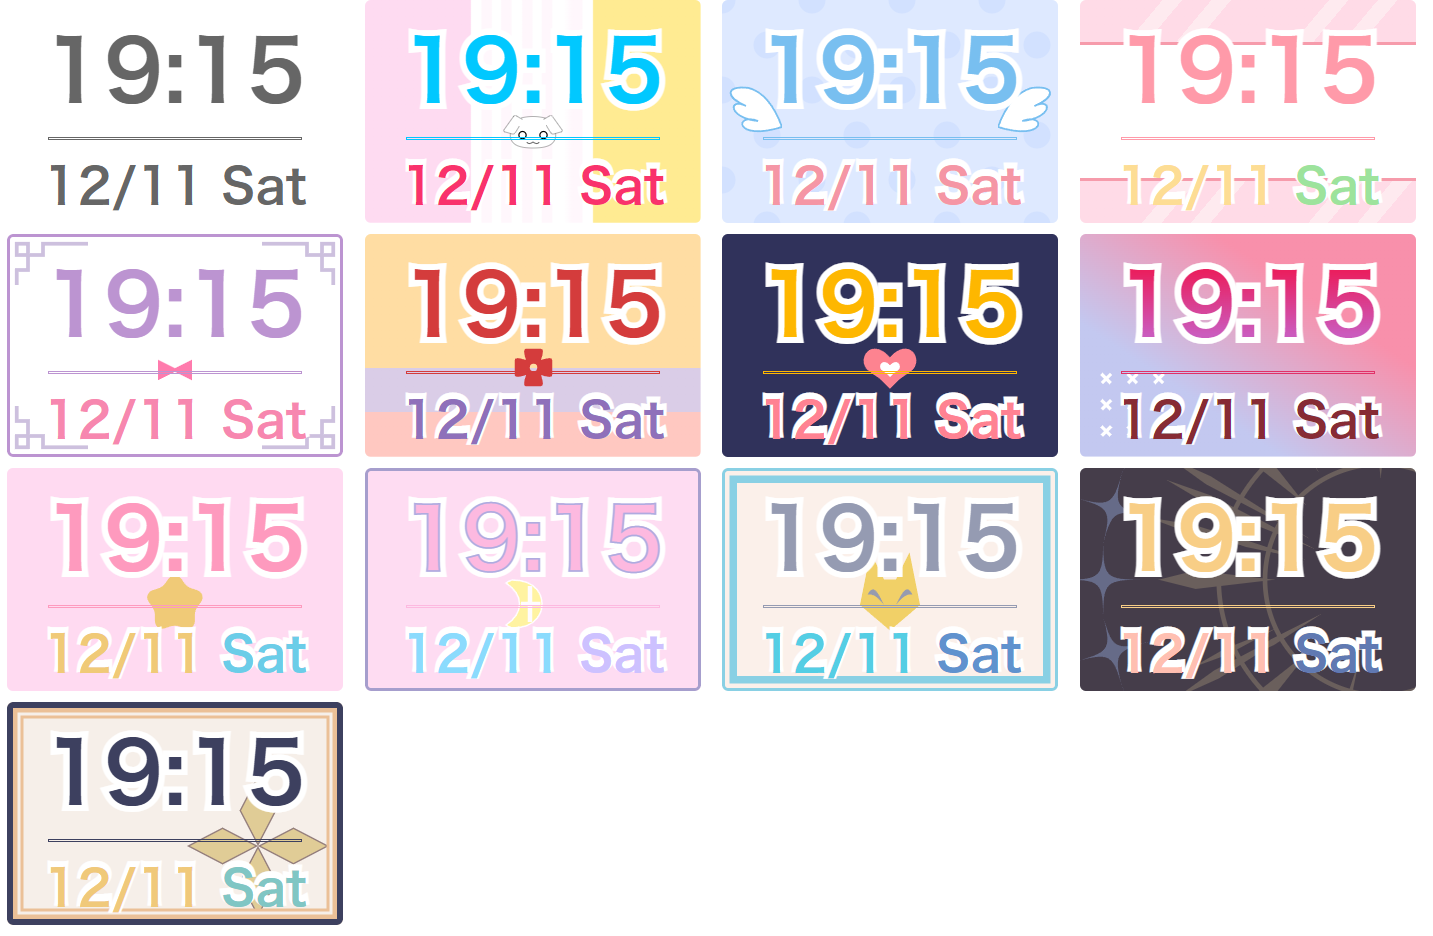
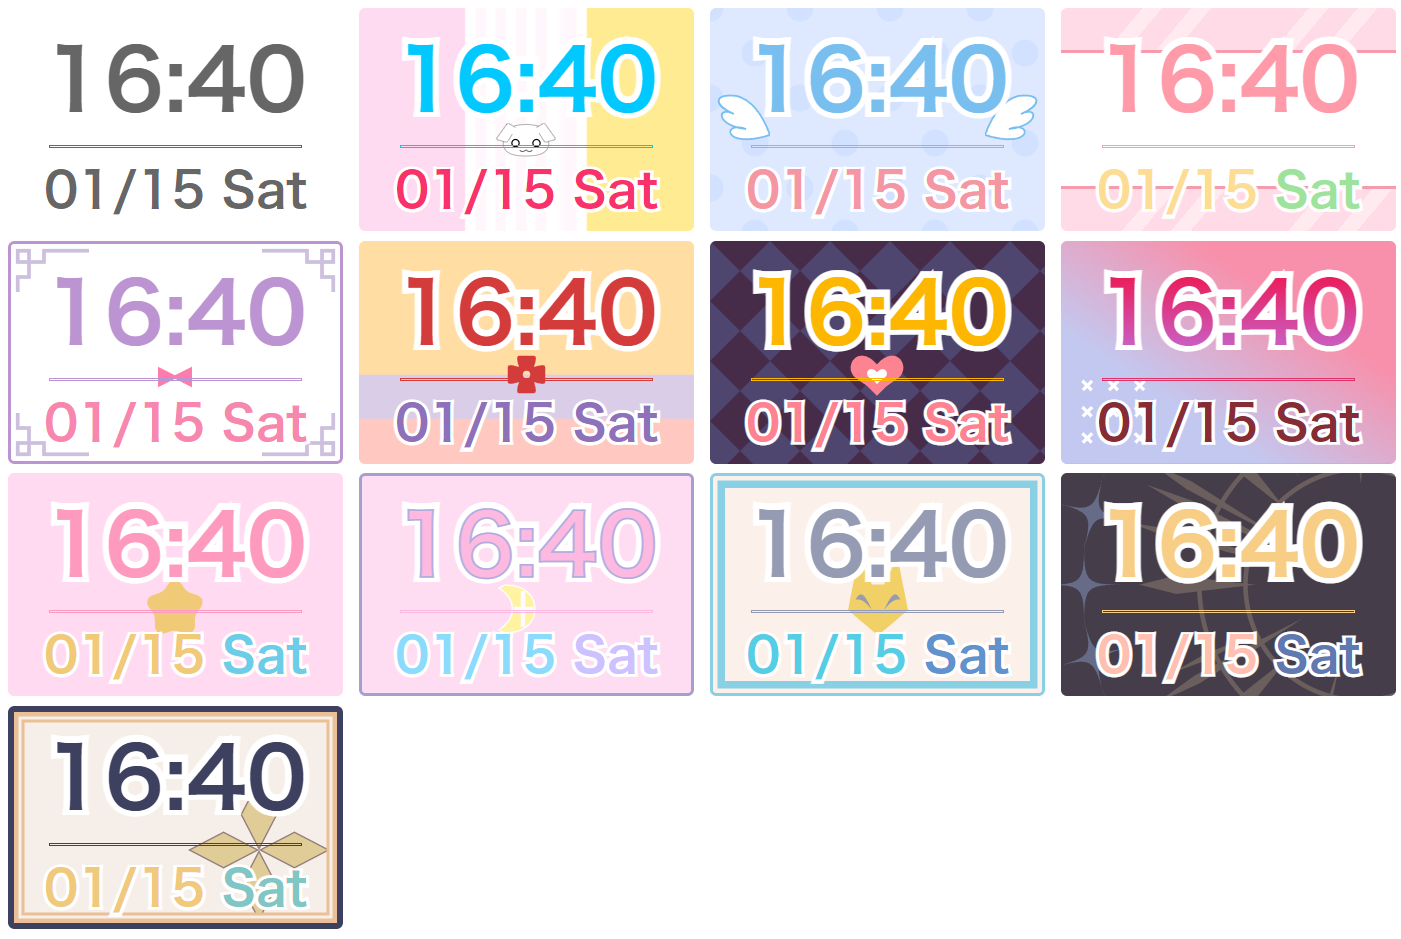
update style

diff --git a/style.css b/style.css
@@ -58,6 +58,7 @@ body {}
 	--daycolor: #ff8292;
 	--weekcolor: #ff8292;
[2 lines of base64/hex data omitted]
 }
 .kirara {
 	--textcolor: #e13168;
@@ -147,9 +148,9 @@ body {}
 }
 #clock.warabe.live {background-position: top right 15%;}
 #clock.warabe.long {background-position: top 15% left 20%;}
-#clock.lilith {background-position: center top 65%;}
-#clock.lilith.live {background-position: top right 15%;}
-#clock.lilith.long {background-position: top 20% left 20%;}
+#clock.lilith {background: var(--img) no-repeat center top 65%, var(--img2) repeat;}
+#clock.lilith.live {background: var(--img) no-repeat top right 15%, var(--img2) repeat;}
+#clock.lilith.long {background: var(--img) no-repeat top 20% left 20%, var(--img2) repeat;}
 #clock.kirara {
 	background: var(--img) no-repeat, linear-gradient(to top right, #c3c8f0 0, #c3c8f0 30%, #f890ab 70%);
 	background-position: bottom 0 left 0;
@@ -208,7 +209,7 @@ body {}
 hr {margin: 0.2rem;border: 1px solid var(--textcolor);}
 #dayweek {font-size: 2rem; color: var(--daycolor);}
 
-#live::after {content: 'Live';top: 0;}
+#live::after {content: 'Live';top: -5%;}
 
 .text-border {
 	position:relative;
@@ -219,12 +220,12 @@ hr {margin: 0.2rem;border: 1px solid var(--textcolor);}
 	content: attr(data-txt);
 	position:absolute;
 	left: 0;
-	top: 0;
+	top: -5%;
 	text-stroke: 0px white;
 	-webkit-text-stroke: 0px white;
 }
 
-#time.text-border::after {top:unset;}
+#time.text-border::after {top: -5%;}
 
 /* for debug */
 #themechanger {
